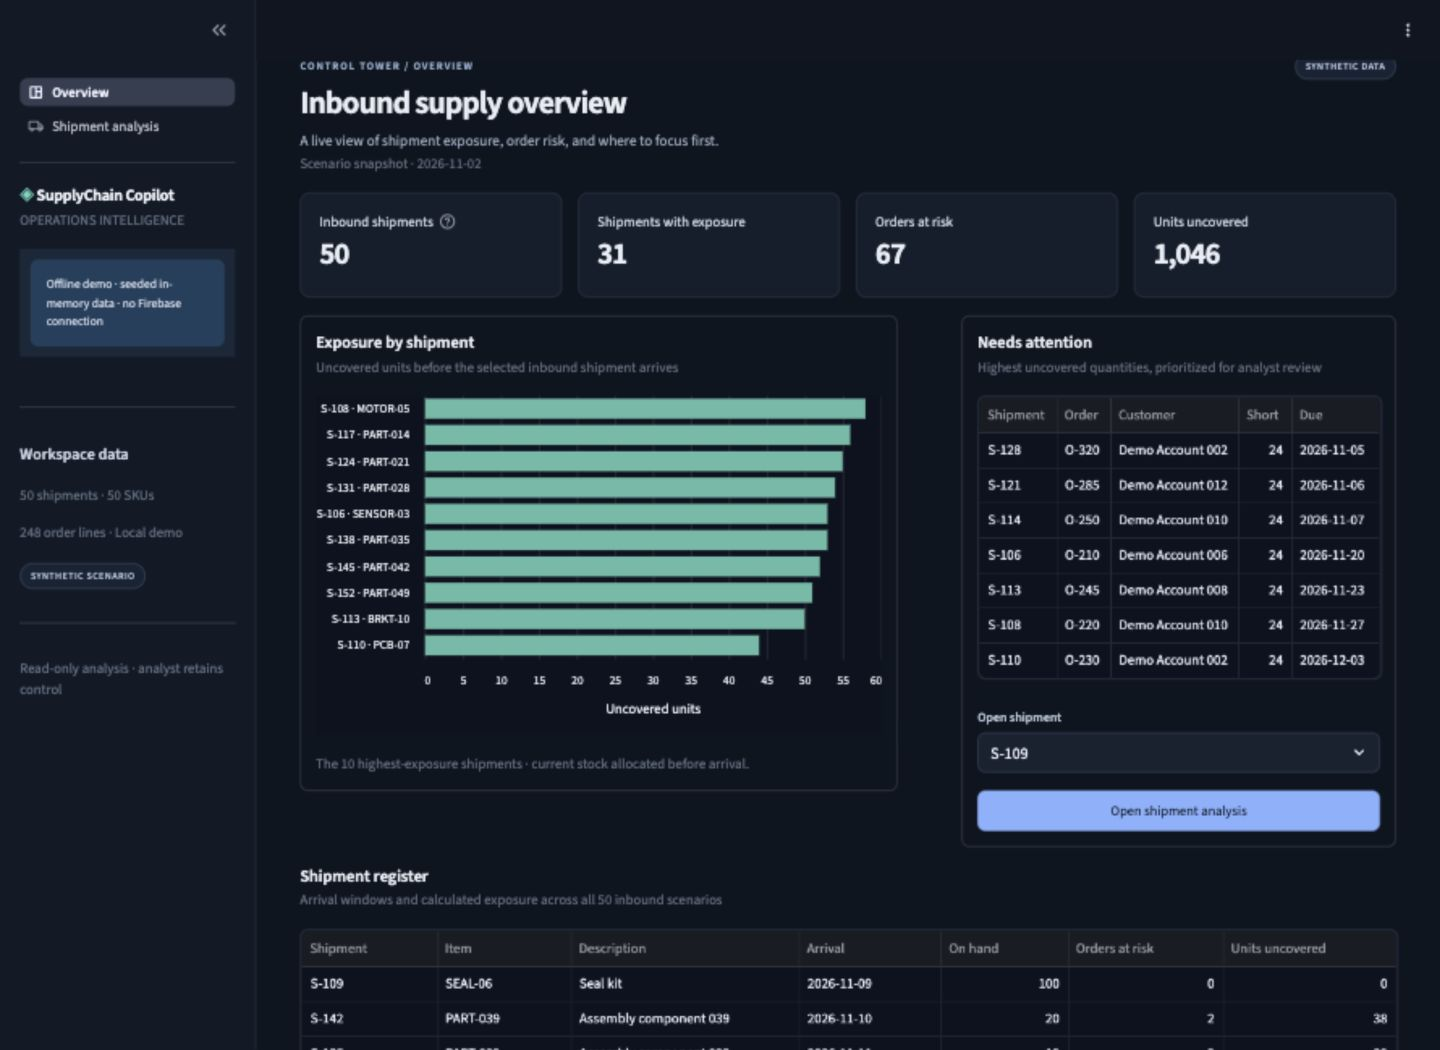
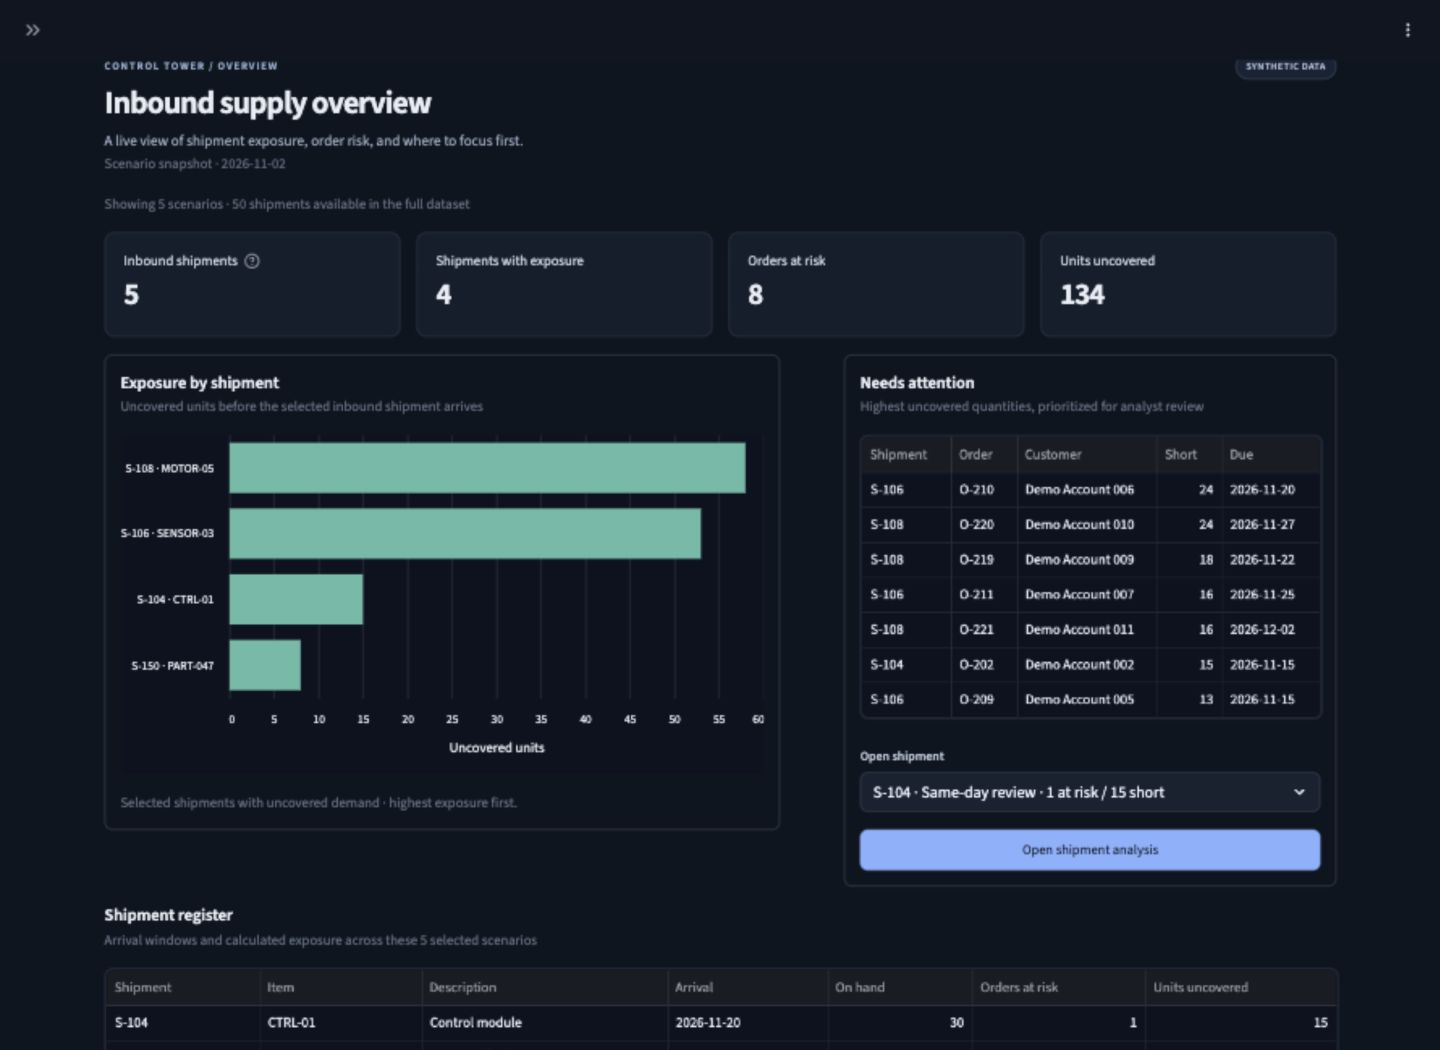
Default demo to five varied shipment scenarios with live risk labels

diff --git a/src/pages/overview.py b/src/pages/overview.py
@@ -2,15 +2,20 @@
 import pandas as pd
 import streamlit as st
 
-from src.ui import load_workspace, page_heading
+from src.ui import demo_shipments, load_workspace, page_heading, shipment_option_label
 
 counts, shipments, exposed_orders, as_of = load_workspace()
+shipments = demo_shipments(shipments, st.session_state.get("show_full_dataset", False))
+visible_ids = {row["shipment_id"] for row in shipments}
+exposed_orders = [row for row in exposed_orders if row["shipment_id"] in visible_ids]
+summary_by_id = {row["shipment_id"]: row for row in shipments}
 page_heading(
     "CONTROL TOWER / OVERVIEW",
     "Inbound supply overview",
     "A live view of shipment exposure, order risk, and where to focus first.",
     as_of,
 )
+st.caption(f"Showing {len(shipments)} scenarios · {counts['shipments']} shipments available in the full dataset")
 
 at_risk_shipments = [row for row in shipments if row["units_uncovered"] > 0]
 units_uncovered = sum(row["units_uncovered"] for row in at_risk_shipments)
@@ -18,7 +23,7 @@ orders_at_risk = sum(row["at_risk_orders"] for row in at_risk_shipments)
 
 with st.container(key="overview_metrics"):
     m1, m2, m3, m4 = st.columns(4)
-    m1.metric("Inbound shipments", counts["shipments"], help="Synthetic delayed-shipment scenarios")
+    m1.metric("Inbound shipments", len(shipments), help="Shipments in the selected scenario list")
     m2.metric("Shipments with exposure", len(at_risk_shipments))
     m3.metric("Orders at risk", orders_at_risk)
     m4.metric("Units uncovered", f"{units_uncovered:,}")
@@ -38,7 +43,7 @@ with left, st.container(border=True):
             for row in chart_rows
         ]).set_index("Shipment · SKU")
         st.bar_chart(chart, color="#62BBA6", horizontal=True, height=340, x_label="Uncovered units", y_label="", sort=False)
-        st.caption("The 10 highest-exposure shipments · current stock allocated before arrival.")
+        st.caption("Selected shipments with uncovered demand · highest exposure first.")
     else:
         st.success("No order exposure in the current scenario records.")
 
@@ -59,13 +64,19 @@ with right, st.container(border=True):
         st.success("No customer orders currently show a shortfall.")
 
     if shipments:
-        chosen = st.selectbox("Open shipment", [row["shipment_id"] for row in shipments])
+        chosen = st.selectbox(
+            "Open shipment", list(summary_by_id),
+            format_func=lambda sid: shipment_option_label(
+                summary_by_id[sid], summary_by_id[sid]["at_risk_orders"],
+                summary_by_id[sid]["units_uncovered"], summary_by_id[sid]["on_hand"],
+            ),
+        )
         if st.button("Open shipment analysis", width="stretch", type="primary"):
             st.session_state["requested_shipment"] = chosen
             st.switch_page("pages/shipment_analysis.py")
 
 st.markdown("### Shipment register")
-st.caption(f"Arrival windows and calculated exposure across all {counts['shipments']} inbound scenarios")
+st.caption(f"Arrival windows and calculated exposure across these {len(shipments)} selected scenarios")
 register_rows = [{
     "Shipment": row["shipment_id"],
     "Item": row["item_id"],

diff --git a/tests/test_regressions.py b/tests/test_regressions.py
@@ -39,6 +39,37 @@ class ReliabilityTest(unittest.TestCase):
         self.assertIn('53 units uncovered across 3 orders', text)
         self.assertIn('O-209 · 13 units short', text)
 
+    def test_shortlist_is_small_and_has_distinct_scenarios(self):
+        app = self.page()
+        self.assertEqual(app.selectbox[0].value, 'S-104')
+        self.assertEqual(len(app.selectbox[0].options), 5)
+        for sid, count, units in [('S-104', 1, 15), ('S-105', 0, 0), ('S-150', 1, 8),
+                                  ('S-106', 3, 53), ('S-108', 3, 58)]:
+            with self.subTest(shipment=sid):
+                app.selectbox[0].select(sid).run(timeout=30)
+                self.assertFalse(list(app.exception))
+                self.assertEqual(app.metric[0].value, str(count))
+                impact = execute_tool('check_shipment_impact', {'shipment_id': sid})
+                self.assertEqual(sum(row['qty_uncovered'] for row in impact['at_risk_orders']), units)
+        app.toggle[0].set_value(True).run(timeout=30)
+        self.assertEqual(len(app.selectbox[0].options), 50)
+        app.selectbox[0].select('S-109').run(timeout=30)
+        app.toggle[0].set_value(False).run(timeout=30)
+        self.assertFalse(list(app.exception))
+        self.assertEqual(app.selectbox[0].value, 'S-104')
+
+    def test_overview_metrics_match_shortlist_and_full_view(self):
+        app = self.page(False)
+        metrics = {m.label: m.value for m in app.metric}
+        self.assertEqual(metrics['Inbound shipments'], '5')
+        self.assertEqual(metrics['Orders at risk'], '8')
+        self.assertEqual(metrics['Units uncovered'], '134')
+        app.toggle[0].set_value(True).run(timeout=30)
+        metrics = {m.label: m.value for m in app.metric}
+        self.assertEqual(metrics['Inbound shipments'], '50')
+        self.assertEqual(metrics['Orders at risk'], '67')
+        self.assertEqual(metrics['Units uncovered'], '1,046')
+
     def test_priority_is_per_order_and_boundary_is_strict(self):
         for shorts, expected in [([6, 6], ['analyst_review'] * 2), ([10], ['analyst_review']), ([11], ['same_day_review'])]:
             allocation = [{'order_id': f'O-{i}', 'qty_uncovered': n} for i, n in enumerate(shorts)]
@@ -77,11 +108,11 @@ class ReliabilityTest(unittest.TestCase):
         with patch.dict('os.environ', {"SUPPLYCHAIN_DEMO_MODE": "1"}):
             database.set_firestore_client_for_testing(None)
             app = self.page(False)
-            self.assertEqual(app.metric[0].value, '50')
+            self.assertEqual(app.metric[0].value, '5')
             database.set_firestore_client_for_testing(None)
             app.run(timeout=30)
             self.assertFalse(list(app.exception))
-            self.assertEqual(app.metric[0].value, '50')
+            self.assertEqual(app.metric[0].value, '5')
             self.assertTrue(any('Offline demo' in row.value for row in app.info))
 
     def test_empty_database_both_entry_points(self):

diff --git a/src/pages/shipment_analysis.py b/src/pages/shipment_analysis.py
@@ -9,10 +9,11 @@ import streamlit as st
 from src.ai_explainer import explain_impact_with_openai
 from src.documents import search_documents
 from src.openai_agent import execute_tool
-from src.supplychain import read_csv
-from src.ui import get_openai_api_key, page_heading
+from src.supplychain import calculate_at_risk_orders, read_csv
+from src.ui import demo_shipments, get_openai_api_key, page_heading, shipment_option_label
 
-shipments = read_csv("shipments.csv")
+all_shipments = read_csv("shipments.csv")
+shipments = demo_shipments(all_shipments, st.session_state.get("show_full_dataset", False))
 shipment_by_id = {row["shipment_id"]: row for row in shipments}
 inventory = read_csv("inventory.csv")
 inventory_by_item = {row["item_id"]: int(row["available_qty"]) for row in inventory}
@@ -29,6 +30,11 @@ if not shipments:
     st.code("python scripts/build_database.py")
     st.stop()
 
+orders = read_csv("orders.csv")
+risks_by_id = {row["shipment_id"]: calculate_at_risk_orders(row, inventory, orders) for row in shipments}
+st.caption(f"{len(shipments)} scenarios · labels reflect the current inventory and order records")
+if st.session_state.get("selected_shipment") not in shipment_by_id:
+    st.session_state["selected_shipment"] = next(iter(shipment_by_id))
 requested = st.session_state.pop("requested_shipment", None)
 if requested in shipment_by_id:
     st.session_state["selected_shipment"] = requested
@@ -36,12 +42,14 @@ selected_id = st.selectbox(
     "Select shipment",
     list(shipment_by_id),
     key="selected_shipment",
-    format_func=lambda shipment_id: (
-        f"{shipment_id}  ·  {shipment_by_id[shipment_id]['item_id']}  ·  "
-        f"{shipment_by_id[shipment_id]['item_name']}"
+    format_func=lambda sid: shipment_option_label(
+        shipment_by_id[sid], len(risks_by_id[sid]),
+        sum(row["qty_uncovered"] for row in risks_by_id[sid]),
+        inventory_by_item.get(shipment_by_id[sid]["item_id"], 0),
     ),
 )
 shipment = shipment_by_id[selected_id]
+st.caption(f"{shipment['item_id']} · {shipment['item_name']}")
 impact = execute_tool("check_shipment_impact", {"shipment_id": selected_id})
 risks = impact["at_risk_orders"]
 units_uncovered = sum(row["qty_uncovered"] for row in risks)

diff --git a/src/ui.py b/src/ui.py
@@ -8,6 +8,35 @@ from src.database import database_counts
 from src.supplychain import calculate_at_risk_orders, read_csv
 
 
+# A small tour of distinct existing scenarios; the underlying seed remains intact.
+DEMO_SHIPMENT_IDS = ("S-104", "S-105", "S-150", "S-106", "S-108")
+
+
+def demo_shipments(rows, show_all=False):
+    """Select the demo tour without modifying operational records."""
+    if show_all:
+        return rows
+    by_id = {row["shipment_id"]: row for row in rows}
+    selected = [by_id[sid] for sid in DEMO_SHIPMENT_IDS if sid in by_id]
+    # Custom databases may not contain any of the bundled demo IDs.
+    return selected or rows
+
+
+def shipment_option_label(shipment, risk_count, short_units, on_hand):
+    if not risk_count:
+        scenario = "Covered"
+    elif on_hand == 0:
+        scenario = "No stock"
+    elif risk_count > 1:
+        scenario = "Multiple orders"
+    elif short_units > 10:
+        scenario = "Same-day review"
+    else:
+        scenario = "Small shortage"
+    return (f"{shipment['shipment_id']} · {scenario} · "
+            f"{risk_count} at risk / {short_units} short")
+
+
 def load_workspace():
     shipments = read_csv("shipments.csv")
     inventory = read_csv("inventory.csv")

diff --git a/tests/test_web_app.py b/tests/test_web_app.py
@@ -18,9 +18,9 @@ class SupplyChainDashboardTest(unittest.TestCase):
         self.assertIn('base = "dark"', (Path(__file__).resolve().parents[1] / ".streamlit/config.toml").read_text())
         self.assertEqual([title.value for title in app.title], ["Inbound supply overview"])
         metrics = {metric.label: metric.value for metric in app.metric}
-        self.assertEqual(metrics["Inbound shipments"], "50")
-        self.assertEqual(metrics["Shipments with exposure"], "31")
-        self.assertEqual(metrics["Units uncovered"], "1,046")
+        self.assertEqual(metrics["Inbound shipments"], "5")
+        self.assertEqual(metrics["Shipments with exposure"], "4")
+        self.assertEqual(metrics["Units uncovered"], "134")
         self.assertTrue(app.dataframe)
 
     @patch("openai.OpenAI")

diff --git a/src/web_app.py b/src/web_app.py
@@ -54,6 +54,8 @@ with st.sidebar:
     if OFFLINE_DEMO:
         st.info("Offline demo · seeded in-memory data · no Firebase connection")
     st.divider()
+    st.toggle("Show full dataset", key="show_full_dataset", value=False)
+    st.caption("Five varied scenarios by default. Enable to explore every shipment.")
     st.markdown("**Workspace data**")
     st.caption(
         f"{counts['shipments']} shipments · {counts['items']} SKUs\n\n"

diff --git a/docs/release_status.md b/docs/release_status.md
@@ -25,7 +25,7 @@ All listed application fixes are implemented and covered by offline regressions:
 | Disconnected overview | Open shipment analysis transfers the selected shipment through session state. |
 
 A README screenshot, animated offline walkthrough, credential-free demo launcher,
-and minimal offline CI workflow are included. The walkthrough holds five actual
+and minimal offline CI workflow are included. The walkthrough holds six actual
 app screenshots; it is not a real AI generation recording. The stack and scope
 remain Streamlit, Firestore, BM25, and deterministic Python calculations.
 
@@ -38,7 +38,7 @@ allocation table (including covered orders and customer details), a separate AI
 commentary panel, and quieter deterministic action cards. Phone layouts keep
 overview metrics in a two-by-two grid and investigation metrics in one row.
 Checked at 1440px desktop and 390px phone widths; no page-level horizontal
-overflow. The README screenshots and five-state offline walkthrough were refreshed.
+overflow. The README screenshots and six-state offline walkthrough were refreshed.
 The existing 46 tests and all seven deterministic evaluations pass.
 
 ## Remaining public release checks
@@ -61,3 +61,13 @@ The application fixes were pushed to `main` in commit `2e3473b`. This audit and
 walkthrough are a follow-up documentation change. Production deployment state,
 credential changes, and live database contents have not been verified by these
 local checks.
+
+## Compact scenario selection
+
+The default UI now shows five existing synthetic examples, ordered to demonstrate
+allocation, covered stock, a small shortage, multiple affected orders, and a
+stockout. Live computed labels display risk counts and shortages. Both pages use
+the same shortlist, and overview metrics are scoped to it (5 shipments, 8 exposed
+orders, 134 units uncovered). Show full dataset restores the original 50-shipment
+portfolio. No seed data or cloud records were modified. All 48 offline tests and
+seven deterministic evaluations pass.

diff --git a/README.md b/README.md
@@ -8,7 +8,7 @@ order lines, and 12 demo accounts. No private or real-company data is used.
 [Live demo](https://supplychain-copilot-252e.onrender.com/) · [Three-minute walkthrough](docs/demo_script.md)
 
 [Animated offline walkthrough (GIF)](docs/images/offline-walkthrough.gif) —
-22 seconds covering Overview, S-104 allocation, S-105, and S-106. Five captured
+26 seconds covering Overview and all five default scenarios. Six captured
 app states; synthetic data; no AI generation or paid calls.
 
 [Local verification and remaining release work](docs/release_status.md)
@@ -17,6 +17,23 @@ app states; synthetic data; no AI generation or paid calls.
 
 Decision support with optional AI commentary: Python owns allocation, shortages, and
 policy actions so the results stay inspectable when generation is unavailable.
+
+## Five-scenario demo tour
+
+The UI defaults to a short list, with labels computed from current records:
+
+| Shipment | Scenario | At-risk orders | Uncovered units |
+| --- | --- | ---: | ---: |
+| S-104 | Earlier-order allocation; same-day review | 1 | 15 |
+| S-105 | Inventory covers every due order | 0 | 0 |
+| S-150 | Small shortage; standard analyst review | 1 | 8 |
+| S-106 | Several affected orders with partial stock | 3 | 53 |
+| S-108 | No available stock | 3 | 58 |
+
+Overview totals follow this selection: 5 shipments, 4 with exposure, 8 at-risk
+orders, and 134 uncovered units. **Show full dataset** in the sidebar restores
+all 50 shipments and the original portfolio totals. The underlying seed records,
+golden cases, and deterministic allocation rules are unchanged.
 
 ## Try it without Firebase
 

diff --git a/docs/demo_script.md b/docs/demo_script.md
@@ -1,7 +1,7 @@
 # Three-minute walkthrough
 
 [Watch the animated offline walkthrough](images/offline-walkthrough.gif). This
-22-second GIF holds five screenshots captured from real local app interactions;
+26-second GIF holds six screenshots captured from real local app interactions;
 it has no audio and does not demonstrate a generated AI response.
 
 1. **0:00–0:30** Open the live demo or run `python scripts/run_offline_demo.py`.
@@ -31,3 +31,11 @@ S-106 (multiple orders), and S-105 (no shortage); inspect both commentary and fa
 then record a short clip labeled “Real AI commentary — private run” with date/model.
 Do not label an offline walkthrough or mocked response as a real AI run. No paid
 calls, cloud changes, or credential reads are needed for the offline checks.
+
+## Shortlist variation
+
+The default selector contains only S-104, S-105, S-150, S-106, and S-108.
+Use S-150 for a small eight-unit shortage with standard review, and S-108 for
+zero inventory and three exposed orders (58 units). S-104 is selected first.
+Labels and overview metrics follow the selected records; Show full dataset
+restores the original 50-shipment portfolio without changing any records.
